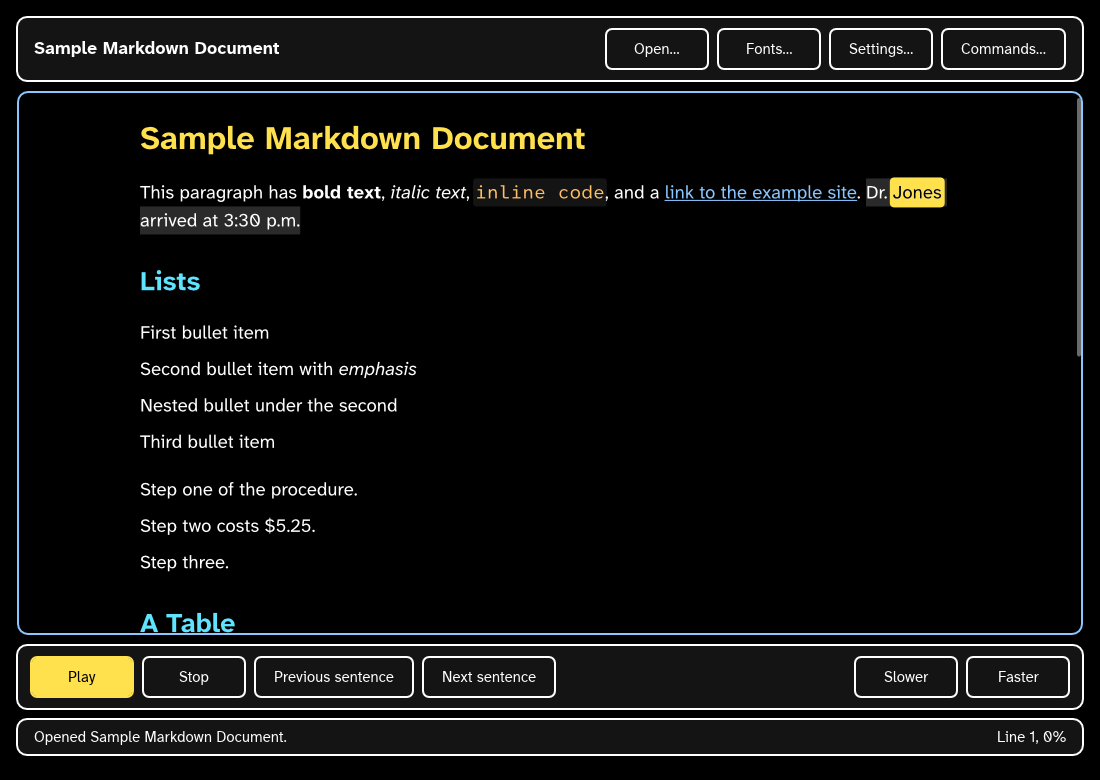
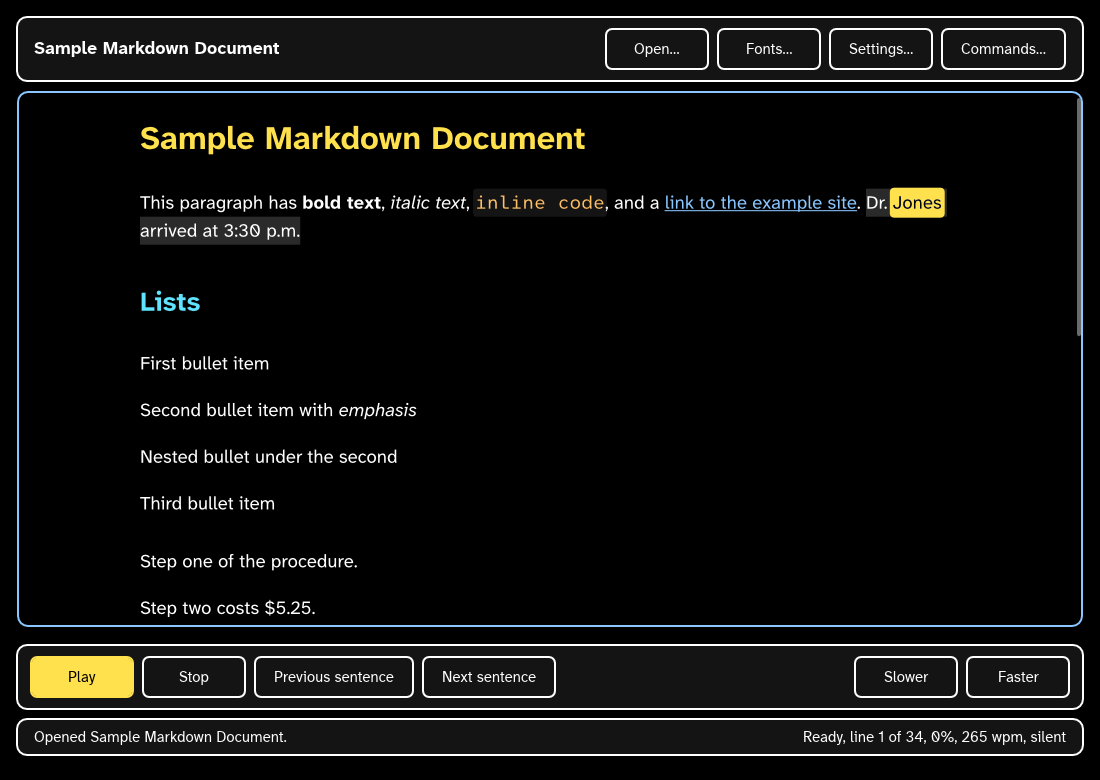
GUI packaging: the window's guide in the package; new screenshots
cargo xtask gui-dist still builds (dist profile, Windows zip) and now
ships docs/gui.md as GUI.md beside the quick start. The review
screenshots are drawn again at 100 and 200 percent, with four new ones
with every reading aid on and RSVP under the document.

diff --git a/xtask/src/gui_dist.rs b/xtask/src/gui_dist.rs
@@ -3,7 +3,7 @@
 //!
 //! Builds `textweaver-xilem` with the `dist` profile and stages it as
 //! `textweaver-gui` with the licence, the third-party notices, the font
-//! licences, and the quick start, in
+//! licences, the quick start, and the window's guide (`docs/gui.md`), in
 //! `target/dist/textweaver-gui-VERSION-PLATFORM/`, then packages it:
 //!
 //! - Windows: a `.zip`;
@@ -32,10 +32,12 @@ const INSTALLED: &str = "textweaver-gui";
 /// The cargo profile (root `Cargo.toml`, `[profile.dist]`).
 const PROFILE: &str = "dist";
 /// Files copied into the package: (source, path in the package).
-const FILES: [(&str, &str); 7] = [
+const FILES: [(&str, &str); 8] = [
     ("LICENSE", "LICENSE"),
     ("THIRD-PARTY-NOTICES.md", "THIRD-PARTY-NOTICES.md"),
     ("docs/quickstart.md", "QUICKSTART.md"),
+    // How to start the window, its keys, and its settings.
+    ("docs/gui.md", "GUI.md"),
     (
         "third_party/fonts/atkinson-hyperlegible-next/OFL.txt",
         "licenses/fonts/atkinson-hyperlegible-next/OFL.txt",

diff --git a/docs/gui.md b/docs/gui.md
@@ -1,0 +1,104 @@
+# The textweaver window (GUI)
+
+textweaver has two readers: the terminal reader, `textweaver`, and a window, `textweaver-xilem`. They share everything that matters: the documents, the keys, the settings, the notes, and the voices. This page covers what is different about the window.
+
+The window is written entirely in Rust (Xilem's Masonry widgets, Vello drawing, Parley text, and AccessKit for screen readers). It is new in this alpha, and edit mode comes in a later version. For writing, use the terminal reader for now.
+
+## Starting it
+
+```sh
+textweaver-xilem path/to/document.md
+```
+
+With no document, it opens empty and says which key opens one (Ctrl+O).
+
+Useful options:
+
+- `--read`: start reading once the document is open.
+- `--theme NAME`: use this theme instead of the saved one, for this run.
+- `--voice ID` and `--backend ID`: the voice or speech engine for this run (see `tw voices` and `tw backends`).
+- `--no-speech`: run silently.
+- `--announce live` or `--announce uia`: how messages reach your screen reader, for this run (see [Announcements](#announcements)).
+- `--select-spoken`: while reading, select the spoken word instead of only moving the caret to it (see [The spoken word](#the-spoken-word)).
+- `--home FOLDER`: keep settings and reading positions in this folder, as `TEXTWEAVER_HOME` does.
+- `--log` or `--log-file PATH`: write what the window announces and does, for a bug report.
+
+`textweaver-xilem --help` lists every option.
+
+## What is in the window
+
+From top to bottom:
+
+1. **The header,** a banner with the document's title and four buttons: Open, Fonts, Settings, and Commands. Each button says its key.
+2. **The document,** one control your screen reader reads as a document. Arrow keys, Home, End, Page Up, and Page Down move the caret, with Shift to select and Ctrl for words, paragraphs, and the document's ends. Ctrl+C copies the selection. Every other key goes to textweaver's keymap, so the browse keys of NVDA and JAWS work here too: `h` for the next heading, `t` for the next table, `k` for the next link, and so on.
+3. **The RSVP strip,** only while RSVP is on (Alt+Shift+R). It shows one word at a time under the document, so it never covers the text or the caret.
+4. **The toolbar,** named "Reading": Play or Pause, Stop, Previous sentence, Next sentence, Slower, and Faster.
+5. **The status bar:** the last message, then what the terminal's title line shows: the reading state, "line 3 of 40, 7%", the accessibility mode, the rate, and the speech engine.
+
+Tab and Shift+Tab move between the document and the buttons. Dialogs (Open, settings, lists, the command palette) open inside the window and take the focus; Escape closes them and puts you back in the document.
+
+## Keys
+
+The window uses the same keymap as the terminal reader, with a few chords the terminal cannot send. The [keyboard reference](keyboard.md) lists every key, with a column for the GUI. The ones you will use most:
+
+- **Space** (browse) or **Ctrl+Shift+Space**: play or pause.
+- **Escape**: stop.
+- **Alt+Down** and **Alt+Up**: next and previous sentence.
+- **Ctrl+O**: open a document.
+- **Ctrl+,**: settings.
+- **F2**: the command palette, every command by name.
+- **F1**: help. In a list, F1 repeats the list's introduction.
+- **Alt+End**: say the last message and the status. In a list, it repeats the list's introduction too.
+- **Alt+'**: say the last message again.
+- **Alt+O**: the outline. Type to filter the headings, Enter jumps to one.
+- **Ctrl+Shift+N**: the notes list.
+- **Ctrl+T** and **Ctrl+Shift+T**: next and previous table. **Ctrl+Alt+arrows** move by cell in a table.
+- **k** and **Shift+K** (browse): next and previous link. **Alt+Shift+F** follows a link.
+- **Alt+Shift+A**: the accessibility mode: self-voicing, hybrid, or screen reader.
+- **F5**: the next color theme.
+- **F9**: single-key shortcuts off or on.
+
+## The spoken word
+
+While textweaver reads, the spoken word has its own background color, and the caret sits at its start, so your screen reader and Braille display follow the reading. This is the default, chosen after the first screen reader session. `--select-spoken` selects the word instead, for anyone who prefers it.
+
+The document window: a very long document is shown a few hundred pages at a time, around where you are. When reading reaches the edge, the window moves on by itself. The text that stays keeps its place, so your screen reader does not lose it.
+
+## Announcements
+
+textweaver's messages ("Paused.", "Reading at 300 words per minute.") reach your screen reader in one of two ways:
+
+- **A live region** (the default). NVDA and JAWS both speak it.
+- **UI Automation notifications** (Windows only). Choose it in Settings, under "Window", or with `--announce uia` for one run.
+
+The setting is `announce` in the `[gui]` section of `settings.toml`; see [Settings](settings.md#gui).
+
+## Reading aids
+
+The window draws the same [reading aids](reading-aids.md) as the terminal, with the same keys:
+
+- **Text spacing:** line height, paragraph spacing, and letter and word spacing, in `[reading_aids.spacing]`. The window uses the exact values; the terminal rounds them to whole rows and spaces.
+- **The reading ruler** (Alt+Shift+U): off, the current line, or the ruler. The reading line gets a band with a bar at its start, the lines around it a paler band, and with `mask_outside` the rest is dimmed. It follows the caret, and the spoken word while reading.
+- **Bionic reading** (Alt+Shift+B): the start of each word in bold.
+- **Difficult words** (Alt+Shift+J): underlined with a thick line, never marked by color alone.
+- **RSVP** (Alt+Shift+R, then Alt+Shift+P to play): one word at a time in its own strip under the document. The word before and after sit to its left and right. The marked letter is bold and underlined as well as colored. RSVP's nine places move the word left, center, or right in the strip.
+
+All of these change only how text looks. Your screen reader reads the same text either way. The RSVP word is hidden from screen readers, so it is never spoken by itself. Beside it is a quiet status ("RSVP paused, word 120 of 900") that you can find with your screen reader's review or object navigation.
+
+## Settings
+
+Settings (Ctrl+,) opens a dialog: the sections on the left, the chosen section's settings on the right. Every change takes effect and is saved at once. It is built from the same list as the terminal's settings screen, so every setting is in both; [Settings](settings.md) describes each one.
+
+## For testers
+
+- `--background` starts the window without taking the focus, off screen, with no taskbar button, for automated checks.
+- `--backend paced` reads silently, timing words like a real engine.
+- `crates/textweaver-xilem/tools/uia-report.ps1` reports what UI Automation sees (Windows); `-WindowEdge` reads past the document window's edge. `tools/atspi-check.sh` does the same with AT-SPI on Linux.
+- `--review-screenshots FOLDER` draws the review screenshots (three themes, 100% and 200%, the dialogs, and the reading aids) without a window.
+
+## See also
+
+- [Keyboard reference](keyboard.md)
+- [Reading aids](reading-aids.md)
+- [Using textweaver with a screen reader](screen-readers.md)
+- [ADR-0027: Xilem GUI](adr/0027-xilem-gui.md) and [ADR-0028: the GUI after the first screen reader session](adr/0028-xilem-gui-after-the-session.md)

diff --git a/docs/README.md b/docs/README.md
@@ -23,6 +23,7 @@ There are also [interactive pages](#interactive-pages) that explain textweaver w
 
 - [Reading and moving around](reading.md): opening files, reading aloud, moving by unit, Speech Cursor, find, go to, and history.
 - [Keyboard reference](keyboard.md): every key in the terminal and the GUI, generated from the keymap.
+- [The textweaver window (GUI)](gui.md): starting it, what is in the window, its keys, announcements, and the reading aids it draws.
 - [Bookmarks, notes, and highlights](notes.md): marking your place and your thoughts.
 - [Reading aids](reading-aids.md): RSVP, bionic reading, the reading ruler, text spacing, fonts, and reading level.
 - [Themes](themes.md): the 23 built-in colour themes, following your system, and writing your own.
